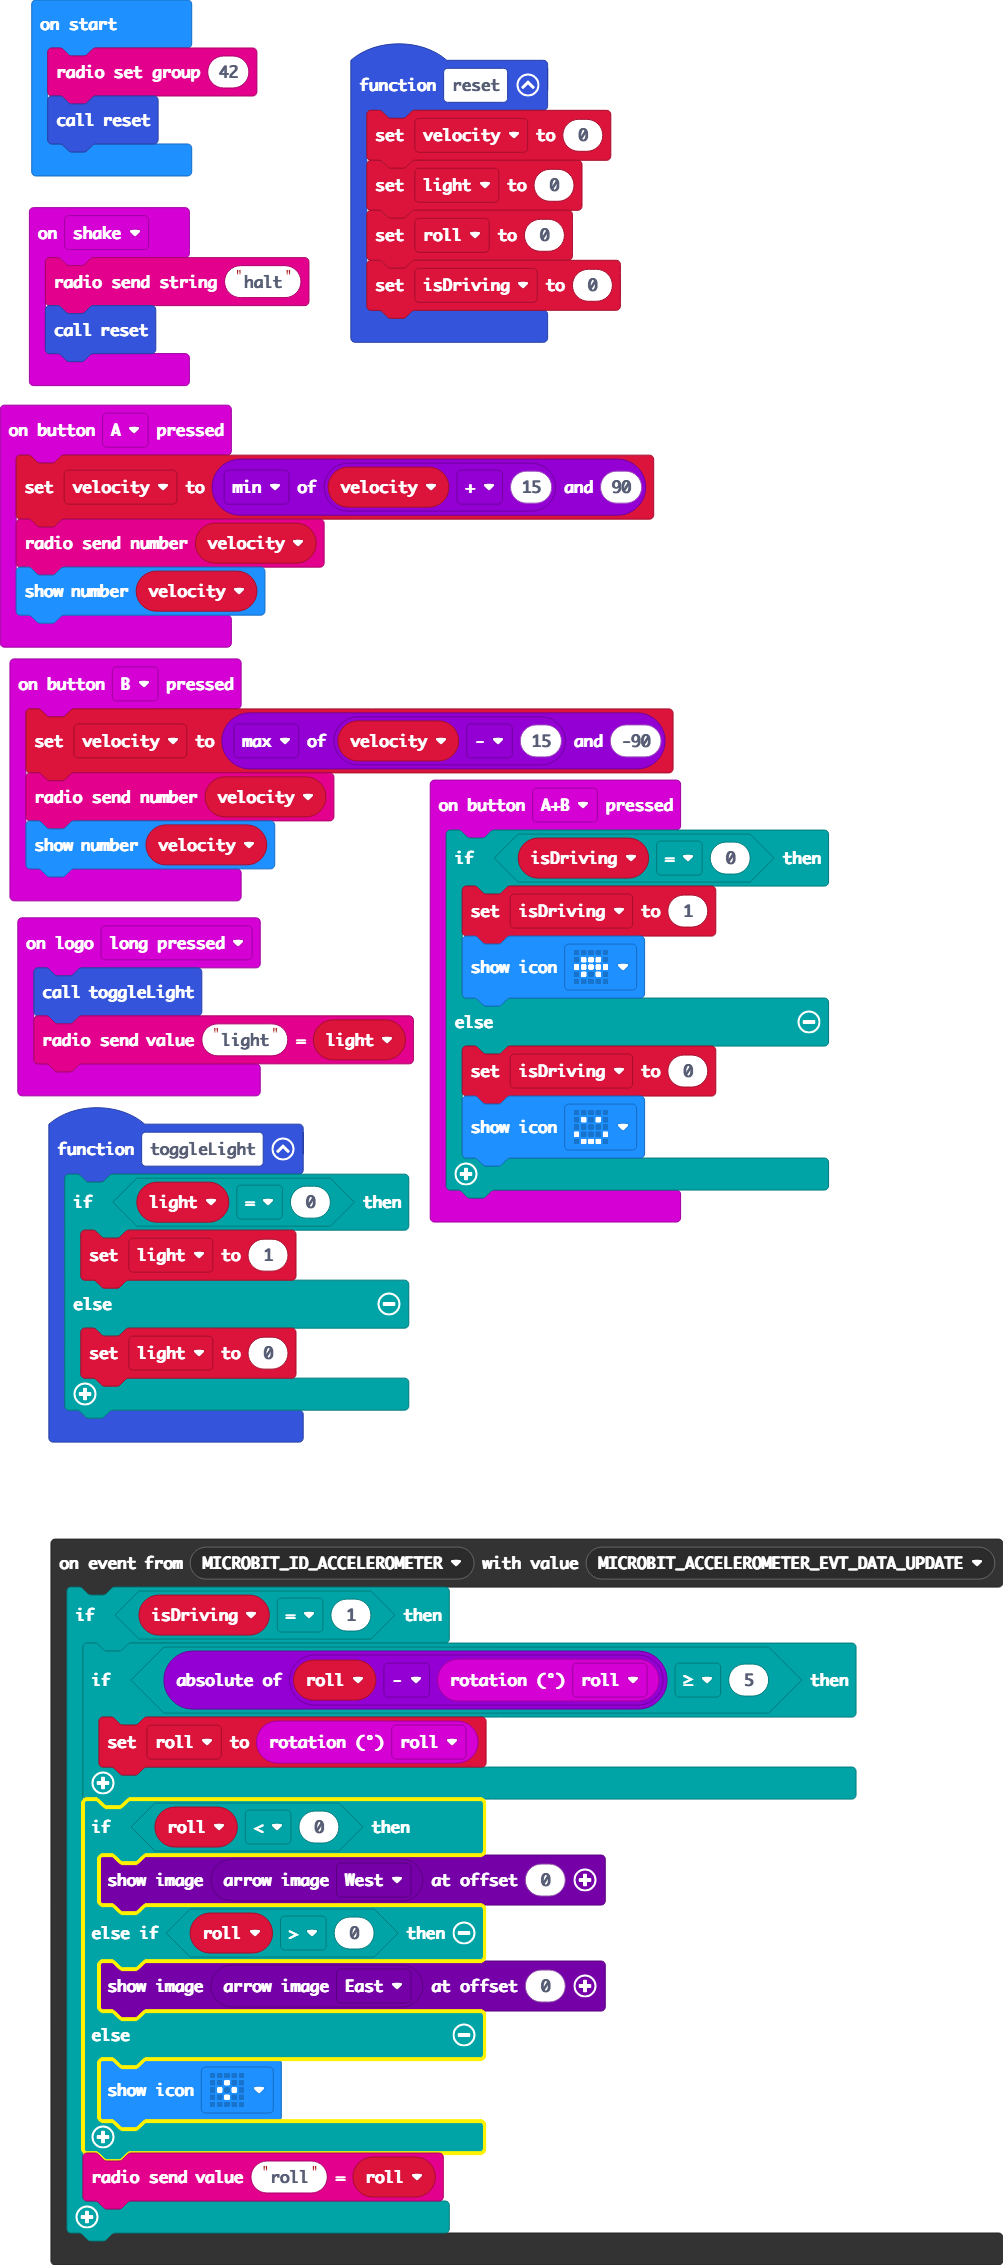
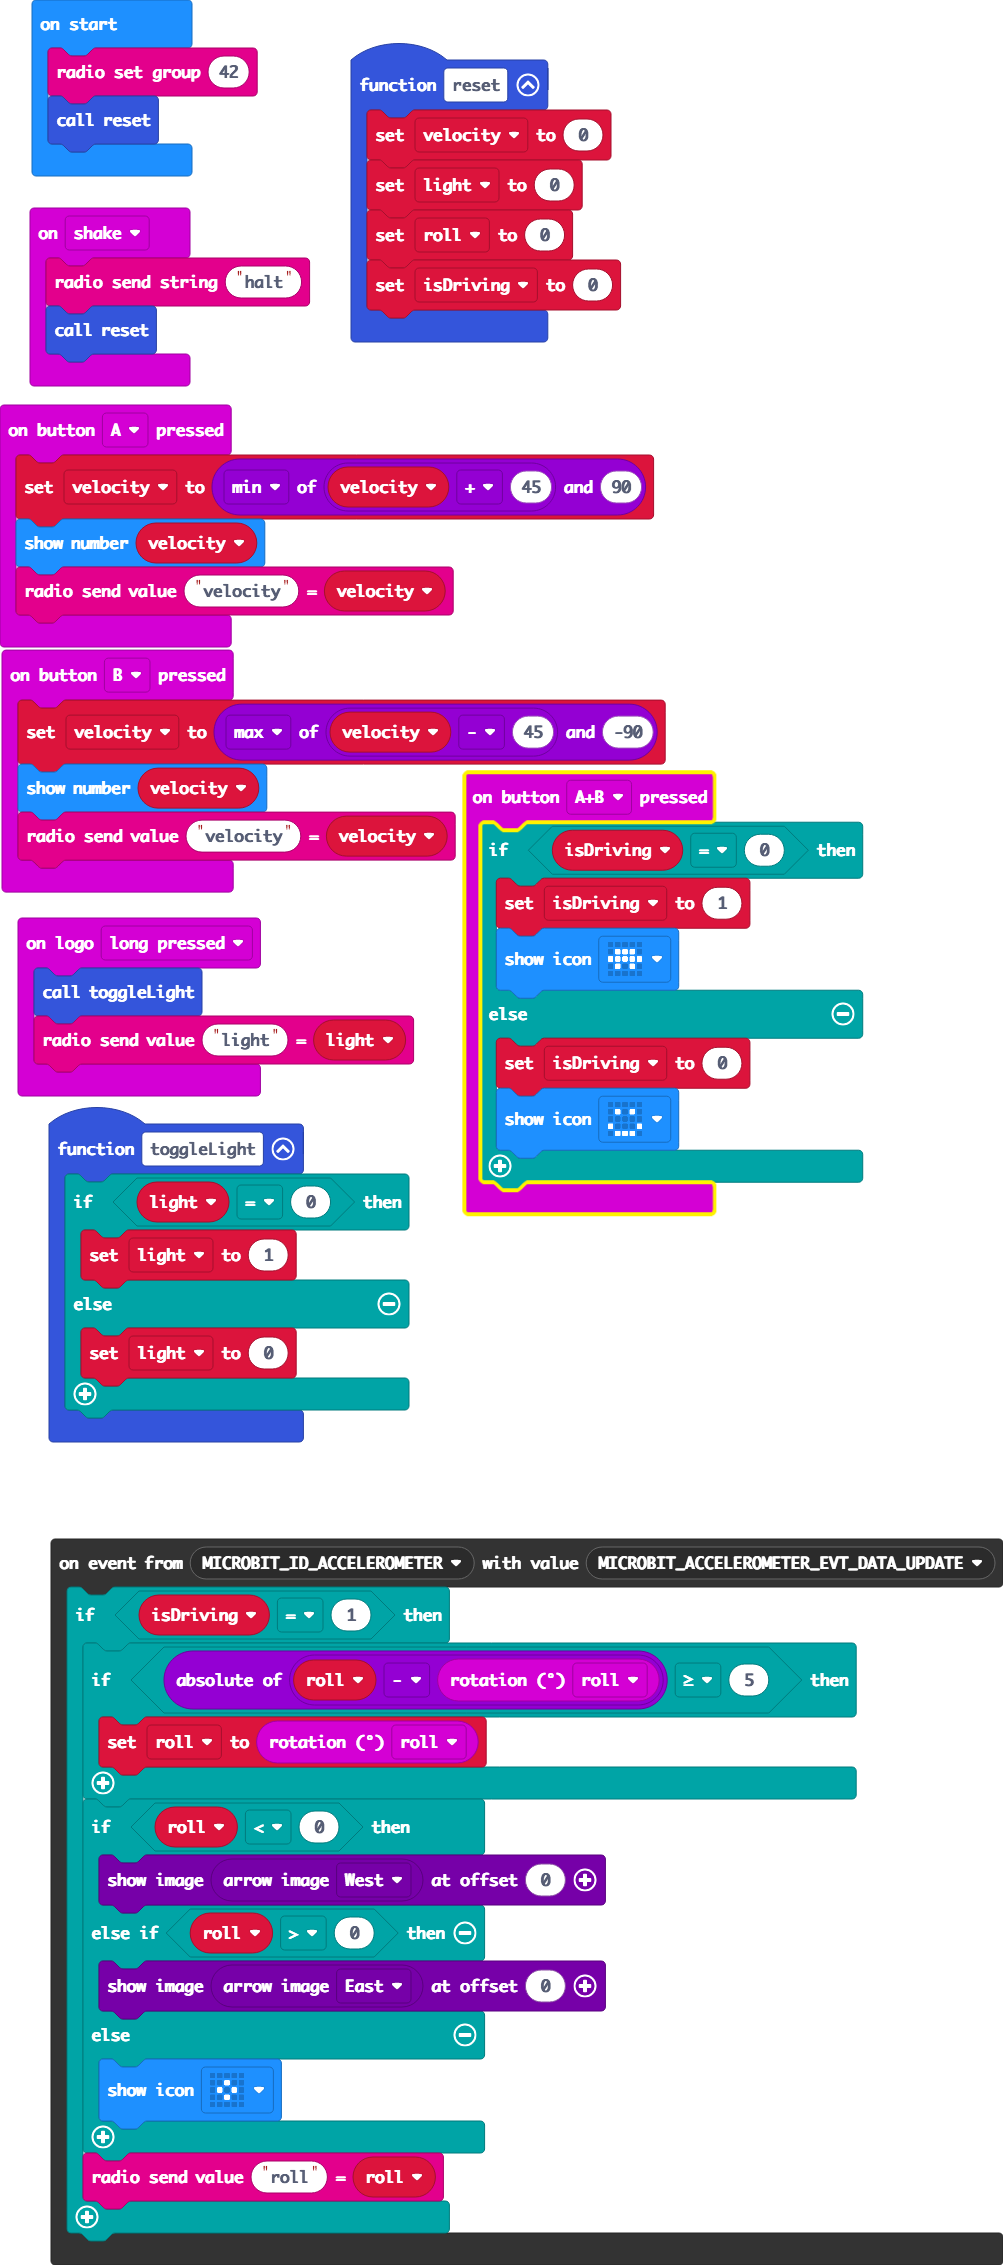
adjust velocity transmition

diff --git a/main.ts b/main.ts
@@ -10,9 +10,9 @@ input.onLogoEvent(TouchButtonEvent.LongPressed, function () {
     radio.sendValue("light", light2)
 })
 input.onButtonPressed(Button.A, function () {
-    velocity = Math.min(velocity + 15, 90)
-    radio.sendNumber(velocity)
+    velocity = Math.min(velocity + 45, 90)
     basic.showNumber(velocity)
+    radio.sendValue("velocity", velocity)
 })
 control.onEvent(EventBusSource.MICROBIT_ID_ACCELEROMETER, EventBusValue.MICROBIT_ACCELEROMETER_EVT_DATA_UPDATE, function () {
     if (isDriving == 1) {
@@ -39,9 +39,9 @@ input.onButtonPressed(Button.AB, function () {
     }
 })
 input.onButtonPressed(Button.B, function () {
-    velocity = Math.max(velocity - 15, -90)
-    radio.sendNumber(velocity)
+    velocity = Math.max(velocity - 45, -90)
     basic.showNumber(velocity)
+    radio.sendValue("velocity", velocity)
 })
 input.onGesture(Gesture.Shake, function () {
     radio.sendString("halt")
